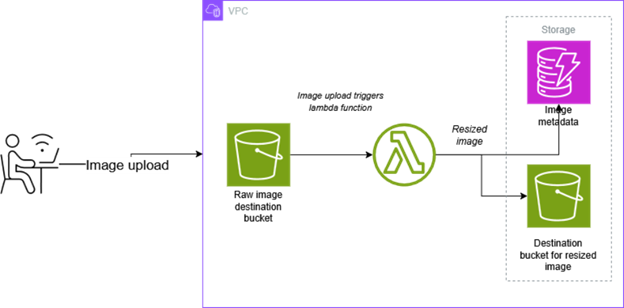
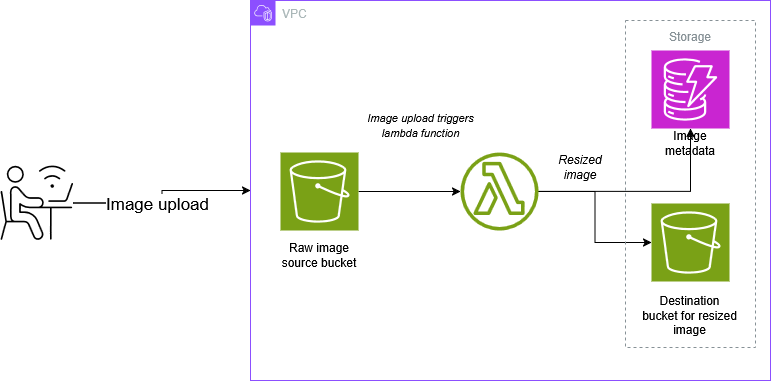
architectural design and code changes

Changed region(s): [[0.3654, 0.6136, 0.4872, 0.7305]]

diff --git a/lambda_function.py b/lambda_function.py
@@ -1,48 +1,69 @@
-from PIL import Image
 import boto3
-import io
 import os
 import uuid
-from datetime import datetime
+import time
+from PIL import Image
+from io import BytesIO
 
 s3 = boto3.client('s3')
 dynamodb = boto3.resource('dynamodb')
-table = dynamodb.Table(os.environ['DDB_TABLE'])
+table = dynamodb.Table('ImageMetadata')
 
 def lambda_handler(event, context):
-    source_bucket = os.environ['SOURCE_BUCKET']
-    dest_bucket = os.environ['DEST_BUCKET']
 
-    for record in event['Records']:
-        key = record['s3']['object']['key']
-        image_id = str(uuid.uuid4())
+    start_time = time.time()
 
-        # Download image
-        response = s3.get_object(Bucket=source_bucket, Key=key)
-        img = Image.open(response['Body'])
+    try:
+        source_bucket = event['Records'][0]['s3']['bucket']['name']
+        key = event['Records'][0]['s3']['object']['key']
+        destination_bucket = os.environ['DEST_BUCKET']
+
+        # Get image
+        image_obj = s3.get_object(Bucket=source_bucket, Key=key)
+        image_data = image_obj['Body'].read()
+        image = Image.open(BytesIO(image_data))
 
         # Resize
-        img.thumbnail((300, 300))
-        buffer = io.BytesIO()
-        img.save(buffer, 'JPEG')
+        image = image.resize((200, 200))
+        buffer = BytesIO()
+        image.save(buffer, 'PNG')
         buffer.seek(0)
 
-        # Upload resized image
-        resized_key = f"resized/{os.path.basename(key)}"
-        s3.put_object(Bucket=dest_bucket, Key=resized_key, Body=buffer, ContentType='image/jpeg')
+        resized_key = f"resized-{key}"
+        s3.put_object(Bucket=destination_bucket, Key=resized_key, Body=buffer, ContentType='image/png')
 
         # Store metadata
         table.put_item(Item={
-            'image_id': image_id,
-            'original_key': key,
-            'resized_key': resized_key,
-            'upload_time': datetime.utcnow().isoformat(),
-            'source_bucket': source_bucket,
-            'dest_bucket': dest_bucket
+            'ImageID': str(uuid.uuid4()),
+            'OriginalFile': key,
+            'ResizedFile': resized_key,
+            'Bucket': destination_bucket
         })
 
-    return {'statusCode': 200, 'body': 'Image resized and metadata stored successfully.'}
+        latency = int((time.time() - start_time) * 1000)
 
+        # ⭐⭐⭐ SUCCESS SLO LOG ⭐⭐⭐
+        print({
+            "status": "success",
+            "status_code": 200,
+            "latency_ms": latency,
+            "file": key,
+            "resized_file": resized_key
+        })
 
+        return {"status": "success", "resized_image": resized_key}
 
+    except Exception as e:
 
+        latency = int((time.time() - start_time) * 1000)
+
+        # ⭐⭐⭐ ERROR SLO LOG ⭐⭐⭐
+        print({
+            "status": "error",
+            "status_code": 500,
+            "latency_ms": latency,
+            "error_message": str(e),
+            "file": key
+        })
+
+        raise e
